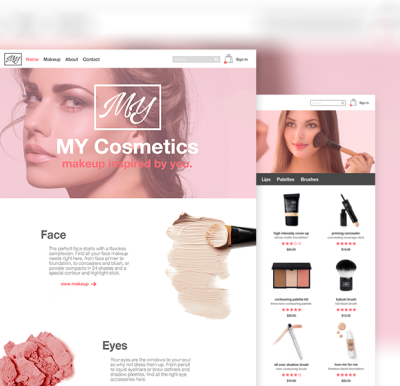
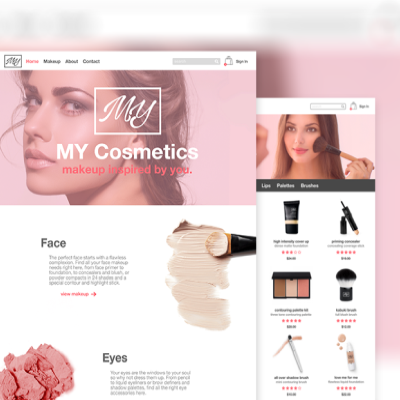
corrected the display issues

diff --git a/landing-page-21.html b/landing-page-21.html
@@ -179,7 +179,7 @@
 
         <!--TEMPLATE CARDS-->
         <div class="row px-4 mt-5">
-          <div class="pb-2 col-6 pl-0 pr-2">
+          <div class="col-6 pl-0 pr-2">
             <div class="card rounded-0">
               <img
                 src="img/01_preview 1.png"
@@ -366,7 +366,7 @@
           <div class="col-6 pl-0 pr-0 pr-2 pt-2">
             <div class="card rounded-0">
               <img
-                src="img/app-wordpress-themes-353x284 1.png"
+                src="img/80895cf180232e3d4fdd34d0bfdae6ab 1.png"
                 alt=""
                 class="card-img-top h-auto"
               />
@@ -382,7 +382,7 @@
                     margin-bottom: 0.5rem !important;
                   "
                 >
-                  App Landing
+                    Beauty
                 </h5>
                 <p
                   class="card-text card-content"
